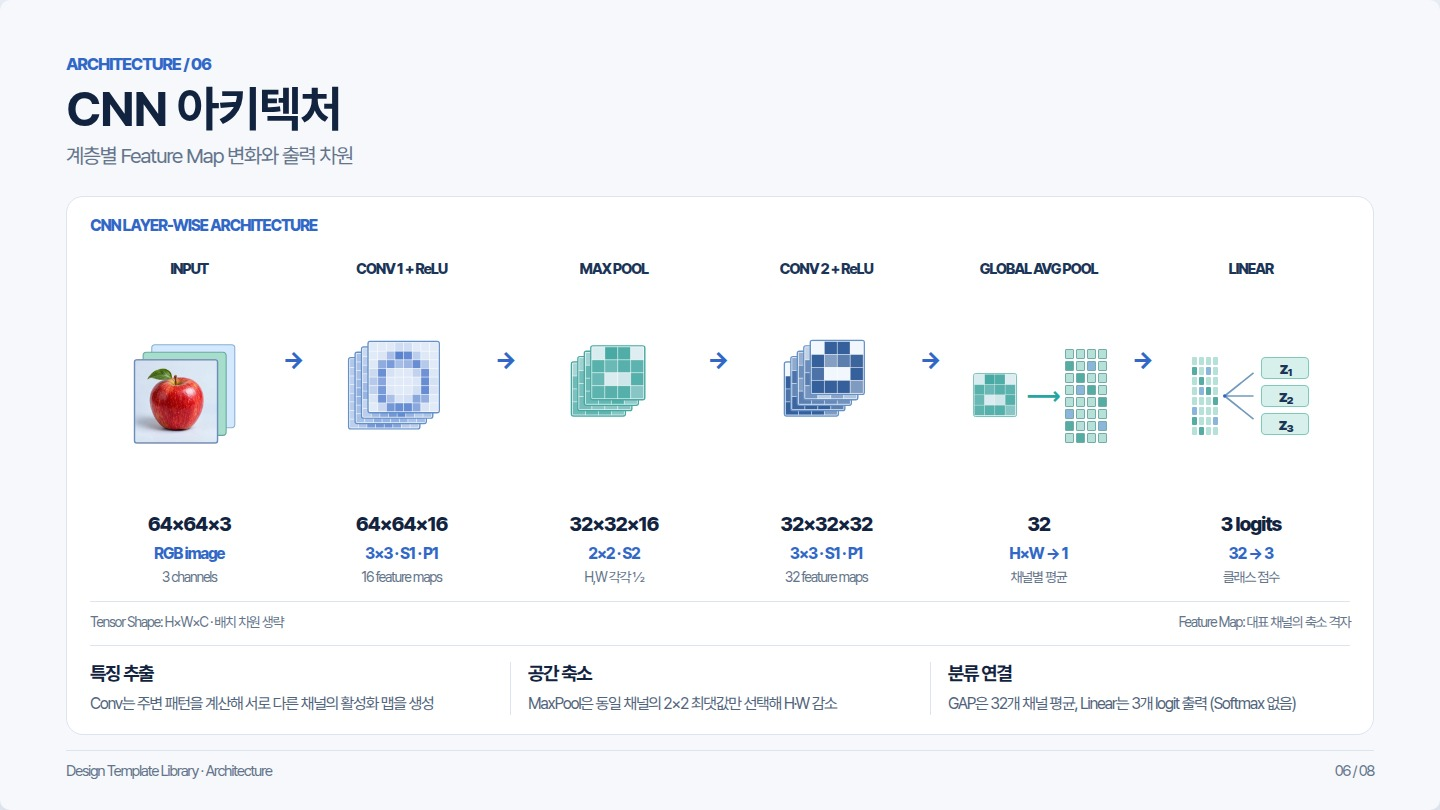
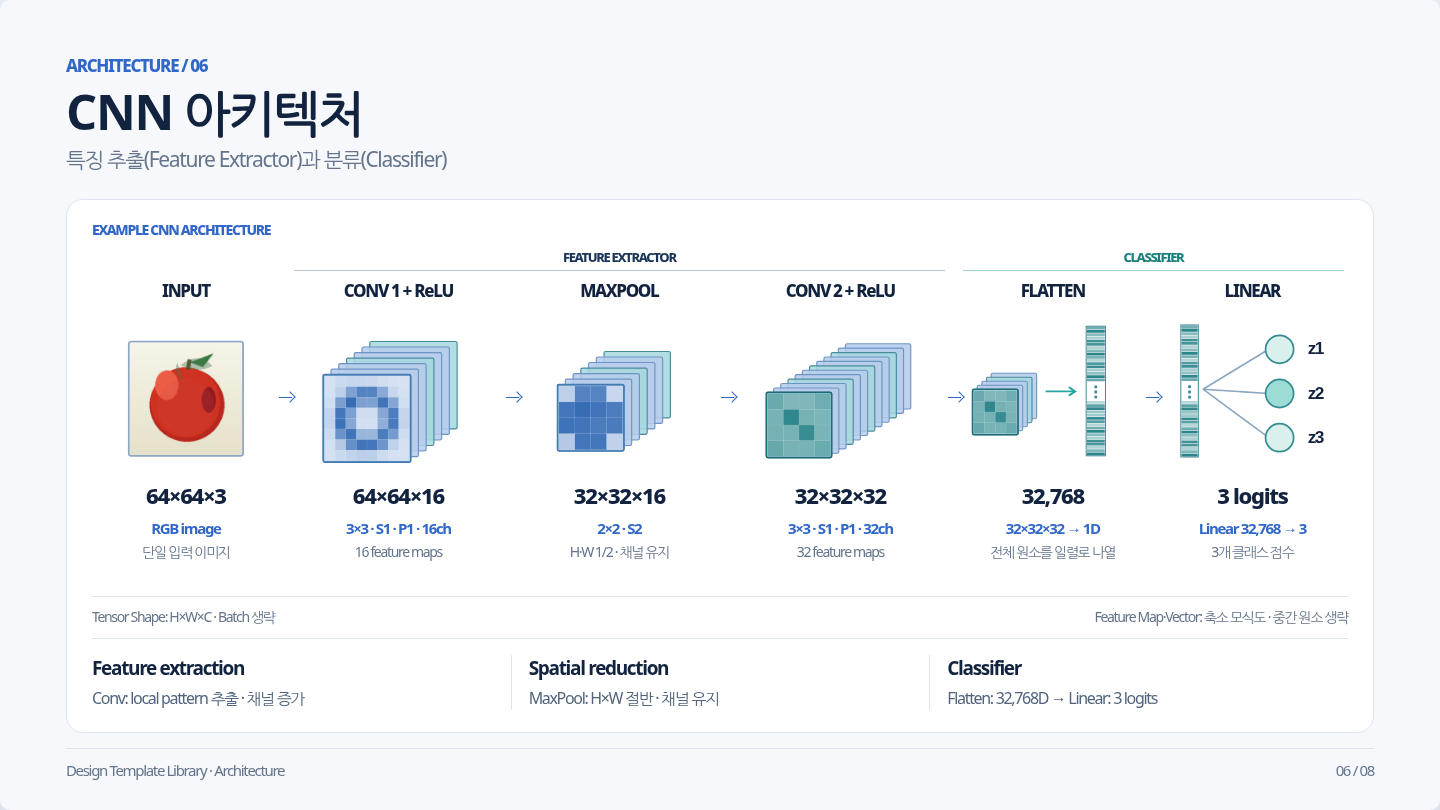
feat(architecture): separate feature extractor and Flatten classifier with refreshed preview

diff --git a/templates/html/architecture.html b/templates/html/architecture.html
@@ -14,9 +14,24 @@
   padding:20px 25px 22px; background:#fff; overflow:hidden;
 }
 .architecture-slide .arch-eyebrow {font-size:14px; font-weight:800; color:var(--blue);}
+/* Functional partition: input / feature extractor / classifier. */
+.architecture-slide .arch-phase-band {
+  display:grid; grid-template-columns:1.05fr 1.22fr 1.15fr 1.22fr 1.05fr 1.07fr;
+  gap:18px; padding:0 4px; margin:9px 0 -7px;
+}
+.architecture-slide .arch-phase-band span {
+  text-align:center; font-size:13px; font-weight:800; color:var(--deep);
+  white-space:nowrap; line-height:1.4;
+}
+.architecture-slide .arch-phase-band span::after {
+  content:""; display:block; height:1px; margin-top:3px; background:#b7c6db;
+}
+.architecture-slide .arch-phase-band .arch-extractor {grid-column:2/5;}
+.architecture-slide .arch-phase-band .arch-classifier {grid-column:5/7; color:#17817d;}
+.architecture-slide .arch-phase-band .arch-classifier::after {background:#9dd2ca;}
 .architecture-slide .arch-pipeline {
   display:grid; grid-template-columns:1.05fr 1.22fr 1.15fr 1.22fr 1.05fr 1.07fr;
-  gap:18px; align-items:start; margin:19px 0 12px; padding:0 4px; flex:1; min-height:0;
+  gap:18px; align-items:start; margin:15px 0 12px; padding:0 4px; flex:1; min-height:0;
 }
 .architecture-slide .arch-stage {
   min-width:0; position:relative; display:flex; flex-direction:column;
@@ -50,6 +65,7 @@
 .architecture-slide .arch-notes strong {display:block; font-size:19px; color:var(--navy); margin-bottom:6px;}
 .architecture-slide .arch-notes p {font-size:16px; color:#52647d; line-height:1.45; margin:0; word-break:keep-all;}
 @media(max-width:900px) {
+  .architecture-slide .arch-phase-band {display:none;}
   .architecture-slide .content > .ref-card {height:auto; overflow:visible; padding:21px;}
   .architecture-slide .arch-pipeline {grid-template-columns:repeat(3,minmax(0,1fr));gap:24px 13px;margin:20px 0 19px;}
   .architecture-slide .arch-stage:not(:last-child)::before,.architecture-slide .arch-stage:not(:last-child)::after {display:none;}
@@ -72,6 +88,10 @@
   .architecture-slide .arch-stage:not(:last-child)::after {display:block;top:auto;bottom:-4px;right:50%;width:1.5px;height:9px;}
   .architecture-slide .arch-stage:not(:last-child)::before {display:block;top:auto;bottom:-6px;right:calc(50% - 3px);transform:rotate(135deg);}
   .architecture-slide .arch-title {grid-column:2;grid-row:1;min-height:0;white-space:normal;}
+  .architecture-slide .arch-title[data-group]::before {
+    content:attr(data-group); display:block; font-size:11px;
+    font-weight:750; color:var(--teal); margin-bottom:3px;
+  }
   .architecture-slide .arch-graphic {grid-column:1;grid-row:1/5;width:126px;height:124px;}
   .architecture-slide .arch-shape {grid-column:2;grid-row:2;font-size:20px;}
   .architecture-slide .arch-operation {grid-column:2;grid-row:3;margin:0;font-size:13px;white-space:normal;}
@@ -91,17 +111,21 @@
 <main class="deck reference-deck">
 <section class="slide ref-slide reference-slide architecture-slide" aria-label="CNN Architecture 레퍼런스">
   <header><div class="ref-overline"><div class="kicker">ARCHITECTURE / 06</div></div>
-    <h1>CNN 아키텍처</h1><p class="subtitle">Feature Map의 채널 증가, 공간 축소, 벡터 요약</p>
+    <h1>CNN 아키텍처</h1><p class="subtitle">특징 추출(Feature Extractor)과 분류(Classifier)</p>
   </header>
   <div class="content"><section class="ref-card">
-    <div class="arch-eyebrow">CNN LAYER-WISE ARCHITECTURE</div>
-    <div class="arch-pipeline" aria-label="Input → Conv1 → MaxPool → Conv2 → GAP → Linear">
+    <div class="arch-eyebrow">EXAMPLE CNN ARCHITECTURE</div>
+    <div class="arch-phase-band" aria-hidden="true">
+      <span class="arch-extractor">FEATURE EXTRACTOR</span>
+      <span class="arch-classifier">CLASSIFIER</span>
+    </div>
+    <div class="arch-pipeline" aria-label="Input → Conv1 → MaxPool → Conv2 → Flatten → Linear">
       <article class="arch-stage" aria-label="Input 단일 RGB 이미지, 64×64×3">
         <div class="arch-title">INPUT</div><div class="arch-graphic" data-art="input"></div>
         <div class="arch-shape">64×64×3</div><div class="arch-operation">RGB image</div><div class="arch-explain">단일 입력 이미지</div>
       </article>
       <article class="arch-stage" aria-label="Conv1 + ReLU, kernel 3, stride 1, padding 1, 64×64×16">
-        <div class="arch-title">CONV 1 + ReLU</div><div class="arch-graphic" data-art="conv1"></div>
+        <div class="arch-title" data-group="FEATURE EXTRACTOR">CONV 1 + ReLU</div><div class="arch-graphic" data-art="conv1"></div>
         <div class="arch-shape">64×64×16</div><div class="arch-operation">3×3 · S1 · P1 · 16ch</div><div class="arch-explain">16 feature maps</div>
       </article>
       <article class="arch-stage" aria-label="MaxPool 2×2, stride 2, 32×32×16">
@@ -112,20 +136,20 @@
         <div class="arch-title">CONV 2 + ReLU</div><div class="arch-graphic" data-art="conv2"></div>
         <div class="arch-shape">32×32×32</div><div class="arch-operation">3×3 · S1 · P1 · 32ch</div><div class="arch-explain">32 feature maps</div>
       </article>
-      <article class="arch-stage" aria-label="Global Average Pooling: 채널별 공간 평균, 32차원 벡터">
-        <div class="arch-title">GAP</div><div class="arch-graphic" data-art="gap"></div>
-        <div class="arch-shape">32</div><div class="arch-operation">mean(H, W)</div><div class="arch-explain">채널별 평균 → 1D</div>
+      <article class="arch-stage" aria-label="Flatten: 32×32×32의 모든 값을 펼쳐 32768차원 1D 벡터 생성">
+        <div class="arch-title" data-group="CLASSIFIER">FLATTEN</div><div class="arch-graphic" data-art="flatten"></div>
+        <div class="arch-shape">32,768</div><div class="arch-operation">32×32×32 → 1D</div><div class="arch-explain">전체 원소를 일렬로 나열</div>
       </article>
-      <article class="arch-stage" aria-label="Linear: 32차원 벡터를 3개 class logits로 사상">
+      <article class="arch-stage" aria-label="Linear: 32768차원 벡터를 3개 class logits로 사상">
         <div class="arch-title">LINEAR</div><div class="arch-graphic" data-art="linear"></div>
-        <div class="arch-shape">3 logits</div><div class="arch-operation">Linear 32 → 3</div><div class="arch-explain">3개 클래스 점수</div>
+        <div class="arch-shape">3 logits</div><div class="arch-operation">Linear 32,768 → 3</div><div class="arch-explain">3개 클래스 점수</div>
       </article>
     </div>
-    <div class="arch-citation"><span>Tensor Shape: H×W×C · Batch 생략</span><span>Feature Map: 대표 채널의 축소 모식도 · 실제 활성화 아님</span></div>
+    <div class="arch-citation"><span>Tensor Shape: H×W×C · Batch 생략</span><span>Feature Map·Vector: 축소 모식도 · 중간 원소 생략</span></div>
     <div class="arch-notes">
-      <div><strong>Feature extraction</strong><p>Conv: local pattern → 다중 채널</p></div>
+      <div><strong>Feature extraction</strong><p>Conv: local pattern 추출 · 채널 증가</p></div>
       <div><strong>Spatial reduction</strong><p>MaxPool: H×W 절반 · 채널 유지</p></div>
-      <div><strong>Vector summarization</strong><p>GAP: 32D vector → Linear: 3 logits</p></div>
+      <div><strong>Classifier</strong><p>Flatten: 32,768D → Linear: 3 logits</p></div>
     </div>
   </section></div>
   <footer class="footer"><span>Design Template Library · Architecture</span><span>06 / 08</span></footer>
@@ -190,6 +214,22 @@
     el('rect',{x:x-.6,y:y-.6,width:width+1.2,height:32*cellH+.2,
       fill:'none',stroke:'#317d8d','stroke-width':.85},svg);
   }
+  /* Long feature vectors are drawn with an explicit omission break;
+     the semantic dimension is 32*32*32, not the number of shown cells. */
+  function drawLongVector(svg,x,y,width=17) {
+    const cellH=3.05;
+    for(let i=0;i<34;i++) {
+      const segment=i<17?i:i-17;
+      const yy=y+(i<17?0:70)+segment*cellH;
+      const t=(Math.sin(i*1.76)+1)/2;
+      el('rect',{x,y:yy,width,height:cellH-.45,rx:.35,
+        fill:ramp(.22+.72*t,'deep')},svg);
+    }
+    [56.7,61.5,66.3].forEach(cy=>el('circle',{
+      cx:x+width/2,cy:y+cy,r:1.5,fill:'#438d99'},svg));
+    el('rect',{x:x-.6,y:y-.6,width:width+1.2,height:122.5,
+      fill:'none',stroke:'#317d8d','stroke-width':.85},svg);
+  }
   const handlers={
     input(svg) {
       el('rect',{x:31,y:31,width:108,height:108,rx:2.5,fill:'#f2f6fa',stroke:'#8fa6c3','stroke-width':1.7},svg);
@@ -201,14 +241,14 @@
     conv1(svg) {drawStack(svg,{x:17,y:63,size:79,n:7,dx:7,dy:5,data:activations,variant:'low'});},
     pool(svg) {drawStack(svg,{x:29,y:72,size:60,n:7,dx:7,dy:5,data:pooled,variant:'low'});},
     conv2(svg) {drawStack(svg,{x:18,y:79,size:59,n:12,dx:6.5,dy:4,data:deep,variant:'deep'});},
-    gap(svg) {
+    flatten(svg) {
       drawStack(svg,{x:9,y:76,size:43,n:5,dx:4.4,dy:3.8,data:deep,variant:'deep'});
       el('path',{d:'M78 78 H105',stroke:colors.teal,'stroke-width':1.8,fill:'none'},svg);
       el('path',{d:'M100 74 L106 78 L100 82',fill:'none',stroke:colors.teal,'stroke-width':1.8},svg);
-      drawVector(svg,117,19,17,3.55);
+      drawLongVector(svg,117,17,17);
     },
     linear(svg) {
-      drawVector(svg,19,19,15,3.55);
+      drawLongVector(svg,19,17,15);
       [39,80,121].forEach(yy=>el('path',{d:`M39 76 L100 ${yy}`,
         stroke:'#8aa7c0','stroke-width':1.5,fill:'none'},svg));
       [39,80,121].forEach((yy,i)=>{

diff --git a/TEMPLATE_CATALOG.md b/TEMPLATE_CATALOG.md
@@ -1,6 +1,6 @@
 # Design Template Catalog · 8 HTML Reference Patterns
 
-**2026-10-21 Concept / Architecture 개선:** Concept은 **왼쪽 흰색 외부 카드 섹션을 유지**하면서 사진 자체에 붙은 추가 배경·테두리·그림자를 제거했습니다. 사진의 80×80 리샘플 결과에서 선택된 실제 4×4 픽셀값을 Canvas로 가져오며, 확대 셀·RGB·HEX 값이 동일한 이미지 데이터에 연결됩니다. Architecture는 **단일 RGB 이미지(64×64×3)** → Conv1 **16채널 Feature Map Stack(64×64×16)** → MaxPool **공간 크기 1/2, 채널 유지(32×32×16)** → Conv2 **32채널 Stack(32×32×32)** → GAP **채널별 평균 1D 벡터(32)** → Linear **3 logits**를 논문형 도식으로 표현합니다. Feature Map 격자는 대표 채널의 공간 구조를 보여주는 축소 도식으로 표기합니다. Chromium에서 1500×950 / 1366×768 / 1280×720 / 390×844 브라우저 검증 및 [검증 JSON](previews/review/concept-architecture-validation.json)과 두 최신 프리뷰를 갱신했습니다.
+**2026-10-21 Concept / Architecture 개선:** Concept은 **왼쪽 흰색 외부 카드 섹션을 유지**하면서 사진 자체에 붙은 추가 배경·테두리·그림자를 제거했습니다. 사진의 80×80 리샘플 결과에서 선택된 실제 4×4 픽셀값을 Canvas로 가져오며, 확대 셀·RGB·HEX 값이 동일한 이미지 데이터에 연결됩니다. Architecture는 **단일 RGB 이미지(64×64×3)** → Conv1 **16채널 Feature Map Stack(64×64×16)** → MaxPool **공간 크기 1/2, 채널 유지(32×32×16)** → Conv2 **32채널 Stack(32×32×32)** → Flatten **1D 벡터(32,768)** → Linear **3 logits**를 논문형 도식으로 표현합니다. Feature Map 격자는 대표 채널의 공간 구조를 보여주는 축소 도식으로 표기합니다. Chromium에서 1500×950 / 1366×768 / 1280×720 / 390×844 브라우저 검증 및 [검증 JSON](previews/review/concept-architecture-validation.json)과 두 최신 프리뷰를 갱신했습니다.
 
 **2026-10-21 검토 상태:** 8종 HTML 브라우저 검증 완료 · 05 문장 단위 줄바꿈 및 공통 어절 보호 반영 · 디자인 승인 대기. [유형별 결과](docs/REFERENCE_REVIEW_2026-10-21.md) · [Before / After](previews/review/README.md)
 
